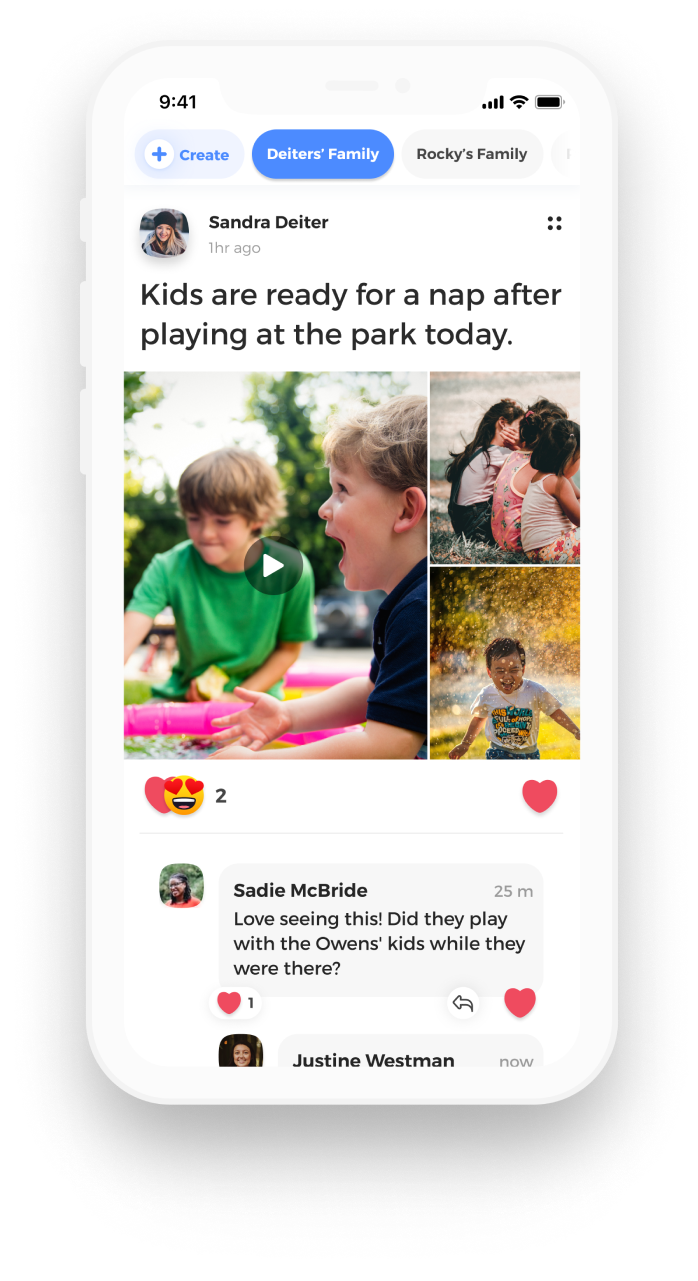
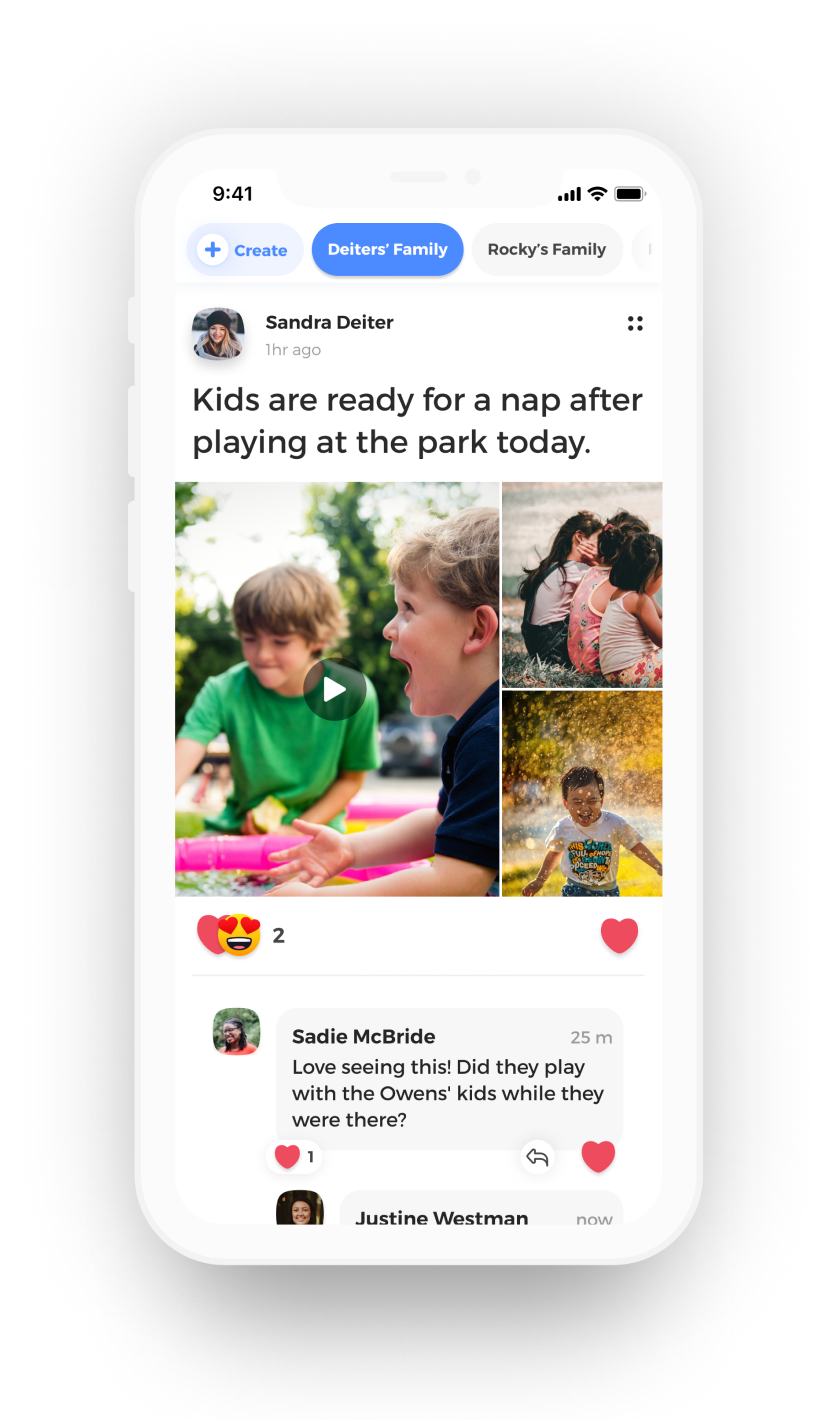
adding new phone images

diff --git a/index.html b/index.html
@@ -12,8 +12,8 @@
 <meta property="og:image" content="https://trytrue.com/static/images/ui/logos/share-true-4.jpg">
 <meta property="og:type" content="website">
 <meta property="og:site_name" content="True">
-<script src="/static/js/vendors.js?cache=1616784410014"></script>
-<link rel="stylesheet" href="/static/css/styles.css?cache=1616784410014">
+<script src="/static/js/vendors.js?cache=1616787174223"></script>
+<link rel="stylesheet" href="/static/css/styles.css?cache=1616787174223">
 <link rel="shortcut icon" type="image/x-icon" href="static/images/favicon.png">
 <script type="text/javascript" src="//script.crazyegg.com/pages/scripts/0087/6974.js" async="async"></script>
 
@@ -159,7 +159,7 @@
                                 </div>
                             </div>
                             <div class="section-image -left">
-                                <img src="static/images/v2/home/phone-screenshot-1.png">
+                                <img src="static/images/v2/home/phone-screenshot-12.png">
                             </div>
                         </div>
                         <div class="feature-outer">
@@ -177,7 +177,7 @@
                                 </div>
                             </div>
                             <div class="section-image">
-                                <img src="static/images/v2/home/phone-screenshot-2.png">
+                                <img src="static/images/v2/home/phone-screenshot-22.png">
                             </div>
                         </div>
                         <div class="feature-outer">
@@ -194,7 +194,7 @@
                                 </div>
                             </div>
                             <div class="section-image -left">
-                                <img src="static/images/v2/home/phone-screenshot-3.png">
+                                <img src="static/images/v2/home/phone-screenshot-32.png">
                             </div>
                         </div>
                         <div class="feature-outer last-child">
@@ -211,7 +211,7 @@
                                 </div>
                             </div>
                             <div class="section-image">
-                                <img src="static/images/v2/home/phone-screenshot-4.png">
+                                <img src="static/images/v2/home/phone-screenshot-42.png">
                             </div>
                         </div>
 
@@ -437,7 +437,7 @@
     
         </div> -->
         </div>
-        <script src="static/js/app.js?cache=1616784410014"></script>
+        <script src="static/js/app.js?cache=1616787174223"></script>
         <!-- Google Analytics -->
         <script>
             (function(i,s,o,g,r,a,m){i['GoogleAnalyticsObject']=r;i[r]=i[r]||function(){

diff --git a/blog/page.html b/blog/page.html
@@ -11,8 +11,8 @@
         <meta property="og:image" content="">
         <meta property="og:type" content="website">
         <meta property="og:site_name" content="True">
-        <script src="/static/js/vendors.js?cache=1616784410014"></script>
-        <link rel="stylesheet" href="/static/css/styles.css?cache=1616784410014">
+        <script src="/static/js/vendors.js?cache=1616787174223"></script>
+        <link rel="stylesheet" href="/static/css/styles.css?cache=1616787174223">
         <link rel="shortcut icon" type="image/x-icon" href="static/images/favicon.png">
         <script type="text/javascript" src="//script.crazyegg.com/pages/scripts/0087/6974.js" async="async"></script>
     </head>
@@ -245,7 +245,7 @@
         </div>
 
 
-        <script src="../static/js/app.js?cache=1616784410014"></script>
+        <script src="../static/js/app.js?cache=1616787174223"></script>
         <!-- Google Analytics -->
         <script>
             (function(i,s,o,g,r,a,m){i['GoogleAnalyticsObject']=r;i[r]=i[r]||function(){

diff --git a/blog/index.html b/blog/index.html
@@ -12,8 +12,8 @@
 <meta property="og:image" content="https://trytrue.com/static/images/ui/logos/share-true-4.jpg">
 <meta property="og:type" content="website">
 <meta property="og:site_name" content="True">
-<script src="/static/js/vendors.js?cache=1616784410014"></script>
-<link rel="stylesheet" href="/static/css/styles.css?cache=1616784410014">
+<script src="/static/js/vendors.js?cache=1616787174223"></script>
+<link rel="stylesheet" href="/static/css/styles.css?cache=1616787174223">
 <link rel="shortcut icon" type="image/x-icon" href="static/images/favicon.png">
 <script type="text/javascript" src="//script.crazyegg.com/pages/scripts/0087/6974.js" async="async"></script>
 
@@ -303,7 +303,7 @@
         </div>
 
 
-        <script src="../static/js/app.js?cache=1616784410014"></script>
+        <script src="../static/js/app.js?cache=1616787174223"></script>
         <!-- Google Analytics -->
         <script>
             (function(i,s,o,g,r,a,m){i['GoogleAnalyticsObject']=r;i[r]=i[r]||function(){

diff --git a/community/index.html b/community/index.html
@@ -12,8 +12,8 @@
 <meta property="og:image" content="https://trytrue.com/static/images/ui/logos/share-true-4.jpg">
 <meta property="og:type" content="website">
 <meta property="og:site_name" content="True">
-<script src="/static/js/vendors.js?cache=1616784410014"></script>
-<link rel="stylesheet" href="/static/css/styles.css?cache=1616784410014">
+<script src="/static/js/vendors.js?cache=1616787174223"></script>
+<link rel="stylesheet" href="/static/css/styles.css?cache=1616787174223">
 <link rel="shortcut icon" type="image/x-icon" href="static/images/favicon.png">
 <script type="text/javascript" src="//script.crazyegg.com/pages/scripts/0087/6974.js" async="async"></script>
 
@@ -220,7 +220,7 @@
         </div>
 
 
-        <script src="../static/js/app.js?cache=1616784410014"></script>
+        <script src="../static/js/app.js?cache=1616787174223"></script>
         <!-- Google Analytics -->
         <script>
             (function(i,s,o,g,r,a,m){i['GoogleAnalyticsObject']=r;i[r]=i[r]||function(){

diff --git a/guidelines/index.html b/guidelines/index.html
@@ -12,8 +12,8 @@
 <meta property="og:image" content="https://trytrue.com/static/images/ui/logos/share-true-4.jpg">
 <meta property="og:type" content="website">
 <meta property="og:site_name" content="True">
-<script src="/static/js/vendors.js?cache=1616784410014"></script>
-<link rel="stylesheet" href="/static/css/styles.css?cache=1616784410014">
+<script src="/static/js/vendors.js?cache=1616787174223"></script>
+<link rel="stylesheet" href="/static/css/styles.css?cache=1616787174223">
 <link rel="shortcut icon" type="image/x-icon" href="static/images/favicon.png">
 <script type="text/javascript" src="//script.crazyegg.com/pages/scripts/0087/6974.js" async="async"></script>
 
@@ -249,7 +249,7 @@
         </div>
 
 
-        <script src="../static/js/app.js?cache=1616784410014"></script>
+        <script src="../static/js/app.js?cache=1616787174223"></script>
         <!-- Google Analytics -->
         <script>
             (function(i,s,o,g,r,a,m){i['GoogleAnalyticsObject']=r;i[r]=i[r]||function(){

diff --git a/careers/index.html b/careers/index.html
@@ -12,8 +12,8 @@
 <meta property="og:image" content="https://trytrue.com/static/images/ui/logos/share-true-4.jpg">
 <meta property="og:type" content="website">
 <meta property="og:site_name" content="True">
-<script src="/static/js/vendors.js?cache=1616784410014"></script>
-<link rel="stylesheet" href="/static/css/styles.css?cache=1616784410014">
+<script src="/static/js/vendors.js?cache=1616787174223"></script>
+<link rel="stylesheet" href="/static/css/styles.css?cache=1616787174223">
 <link rel="shortcut icon" type="image/x-icon" href="static/images/favicon.png">
 <script type="text/javascript" src="//script.crazyegg.com/pages/scripts/0087/6974.js" async="async"></script>
 
@@ -184,7 +184,7 @@
         </div>
 
 
-        <script src="/static/js/app.js?cache=1616784410014"></script>
+        <script src="/static/js/app.js?cache=1616787174223"></script>
         <!-- Google Analytics -->
         <script>
             (function(i,s,o,g,r,a,m){i['GoogleAnalyticsObject']=r;i[r]=i[r]||function(){

diff --git a/feedback/index.html b/feedback/index.html
@@ -12,8 +12,8 @@
 <meta property="og:image" content="https://trytrue.com/static/images/ui/logos/share-true-4.jpg">
 <meta property="og:type" content="website">
 <meta property="og:site_name" content="True">
-<script src="/static/js/vendors.js?cache=1616784410014"></script>
-<link rel="stylesheet" href="/static/css/styles.css?cache=1616784410014">
+<script src="/static/js/vendors.js?cache=1616787174223"></script>
+<link rel="stylesheet" href="/static/css/styles.css?cache=1616787174223">
 <link rel="shortcut icon" type="image/x-icon" href="static/images/favicon.png">
 <script type="text/javascript" src="//script.crazyegg.com/pages/scripts/0087/6974.js" async="async"></script>
 
@@ -207,7 +207,7 @@
         </div>
 
 
-        <script src="/static/js/app.js?cache=1616784410014"></script>
+        <script src="/static/js/app.js?cache=1616787174223"></script>
         <!-- Google Analytics -->
         <script>
             (function(i,s,o,g,r,a,m){i['GoogleAnalyticsObject']=r;i[r]=i[r]||function(){

diff --git a/press/index.html b/press/index.html
@@ -12,8 +12,8 @@
 <meta property="og:image" content="https://trytrue.com/static/images/ui/logos/share-true-4.jpg">
 <meta property="og:type" content="website">
 <meta property="og:site_name" content="True">
-<script src="/static/js/vendors.js?cache=1616784410014"></script>
-<link rel="stylesheet" href="/static/css/styles.css?cache=1616784410014">
+<script src="/static/js/vendors.js?cache=1616787174223"></script>
+<link rel="stylesheet" href="/static/css/styles.css?cache=1616787174223">
 <link rel="shortcut icon" type="image/x-icon" href="static/images/favicon.png">
 <script type="text/javascript" src="//script.crazyegg.com/pages/scripts/0087/6974.js" async="async"></script>
 
@@ -189,7 +189,7 @@
         </div>
 
 
-        <script src="/static/js/app.js?cache=1616784410014"></script>
+        <script src="/static/js/app.js?cache=1616787174223"></script>
         <!-- Google Analytics -->
         <script>
             (function(i,s,o,g,r,a,m){i['GoogleAnalyticsObject']=r;i[r]=i[r]||function(){

diff --git a/safety/index.html b/safety/index.html
@@ -12,8 +12,8 @@
 <meta property="og:image" content="https://trytrue.com/static/images/ui/logos/share-true-4.jpg">
 <meta property="og:type" content="website">
 <meta property="og:site_name" content="True">
-<script src="/static/js/vendors.js?cache=1616784410014"></script>
-<link rel="stylesheet" href="/static/css/styles.css?cache=1616784410014">
+<script src="/static/js/vendors.js?cache=1616787174223"></script>
+<link rel="stylesheet" href="/static/css/styles.css?cache=1616787174223">
 <link rel="shortcut icon" type="image/x-icon" href="static/images/favicon.png">
 <script type="text/javascript" src="//script.crazyegg.com/pages/scripts/0087/6974.js" async="async"></script>
 
@@ -232,7 +232,7 @@
         </div>
 
 
-        <script src="/static/js/app.js?cache=1616784410014"></script>
+        <script src="/static/js/app.js?cache=1616787174223"></script>
         <!-- Google Analytics -->
         <script>
             (function(i,s,o,g,r,a,m){i['GoogleAnalyticsObject']=r;i[r]=i[r]||function(){

diff --git a/story/index.html b/story/index.html
@@ -12,8 +12,8 @@
 <meta property="og:image" content="https://trytrue.com/static/images/ui/logos/share-true-4.jpg">
 <meta property="og:type" content="website">
 <meta property="og:site_name" content="True">
-<script src="/static/js/vendors.js?cache=1616784410014"></script>
-<link rel="stylesheet" href="/static/css/styles.css?cache=1616784410014">
+<script src="/static/js/vendors.js?cache=1616787174223"></script>
+<link rel="stylesheet" href="/static/css/styles.css?cache=1616787174223">
 <link rel="shortcut icon" type="image/x-icon" href="static/images/favicon.png">
 <script type="text/javascript" src="//script.crazyegg.com/pages/scripts/0087/6974.js" async="async"></script>
 
@@ -179,7 +179,7 @@
         </div>
 
 
-        <script src="/static/js/app.js?cache=1616784410014"></script>
+        <script src="/static/js/app.js?cache=1616787174223"></script>
         <!-- Google Analytics -->
         <script>
             (function(i,s,o,g,r,a,m){i['GoogleAnalyticsObject']=r;i[r]=i[r]||function(){

diff --git a/support/faq.html b/support/faq.html
@@ -12,8 +12,8 @@
 <meta property="og:image" content="https://trytrue.com/static/images/ui/logos/share-true-4.jpg">
 <meta property="og:type" content="website">
 <meta property="og:site_name" content="True">
-<script src="/static/js/vendors.js?cache=1616784410014"></script>
-<link rel="stylesheet" href="/static/css/styles.css?cache=1616784410014">
+<script src="/static/js/vendors.js?cache=1616787174223"></script>
+<link rel="stylesheet" href="/static/css/styles.css?cache=1616787174223">
 <link rel="shortcut icon" type="image/x-icon" href="static/images/favicon.png">
 <script type="text/javascript" src="//script.crazyegg.com/pages/scripts/0087/6974.js" async="async"></script>
 
@@ -275,7 +275,7 @@
         </div>
 
 
-        <script src="/static/js/app.js?cache=1616784410014"></script>
+        <script src="/static/js/app.js?cache=1616787174223"></script>
         <!-- Google Analytics -->
         <script>
             (function(i,s,o,g,r,a,m){i['GoogleAnalyticsObject']=r;i[r]=i[r]||function(){

diff --git a/support/index.html b/support/index.html
@@ -12,8 +12,8 @@
 <meta property="og:image" content="https://trytrue.com/static/images/ui/logos/share-true-4.jpg">
 <meta property="og:type" content="website">
 <meta property="og:site_name" content="True">
-<script src="/static/js/vendors.js?cache=1616784410014"></script>
-<link rel="stylesheet" href="/static/css/styles.css?cache=1616784410014">
+<script src="/static/js/vendors.js?cache=1616787174223"></script>
+<link rel="stylesheet" href="/static/css/styles.css?cache=1616787174223">
 <link rel="shortcut icon" type="image/x-icon" href="static/images/favicon.png">
 <script type="text/javascript" src="//script.crazyegg.com/pages/scripts/0087/6974.js" async="async"></script>
 
@@ -263,7 +263,7 @@
         </div>
 
 
-        <script src="/static/js/app.js?cache=1616784410014"></script>
+        <script src="/static/js/app.js?cache=1616787174223"></script>
         <!-- Google Analytics -->
         <script>
             (function(i,s,o,g,r,a,m){i['GoogleAnalyticsObject']=r;i[r]=i[r]||function(){
